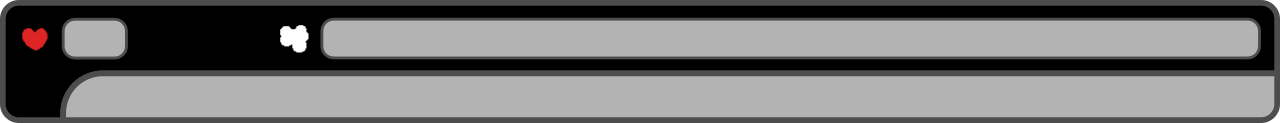
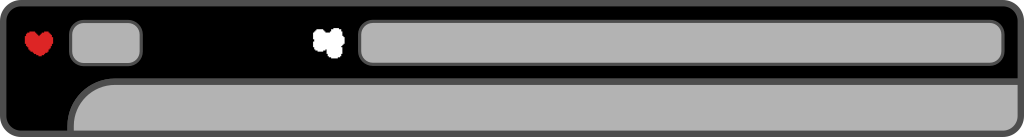
adjust hud

diff --git a/hud.go b/hud.go
@@ -43,7 +43,7 @@ func (h *Hud) Update() {
 }
 
 func (h *Hud) drawTitle(screen *ebiten.Image) {
-	text.Draw(screen, "Level " + h.levelTitle, mplusSmallFont, 50, 53, color.Black)
+	text.Draw(screen, "Level " + h.levelTitle, mplusSmallFont, 105, 115, color.Black)
 }
 
 func (h *Hud) Draw(screen *ebiten.Image) {
@@ -59,7 +59,7 @@ func (h *Hud) drawLive(offset int, screen *ebiten.Image) {
 	op := &ebiten.DrawImageOptions{}
 	x, y := h.position()
 
-	op.GeoM.Translate(float64(x) + 135 + float64(offset), float64(y) + 40)
+	op.GeoM.Translate(float64(x) + 155 + float64(offset), float64(y) + 50)
 	op.GeoM.Scale(scale/1.9, scale/1.9)
 	screen.DrawImage(sprites["player_center"], op)
 }
@@ -85,7 +85,7 @@ func (h *Hud) drawBackground(screen *ebiten.Image) {
 }
 
 func (h *Hud) drawOxigenBar(screen *ebiten.Image) {
-	vector.DrawFilledRect(screen, 167, 14, float32(h.oxygen), 11, color.RGBA{0xff, 0xff, 0xff, 0xff}, true)
+	vector.DrawFilledRect(screen, 375, 33, float32(h.oxygen), 18, color.RGBA{0xff, 0xff, 0xff, 0xff}, true)
 }
 
 func (h *Hud) MoveTo(x int, y int) {

diff --git a/constants.go b/constants.go
@@ -20,9 +20,9 @@ const (
 	maxVx              = 5
 	maxVy              = 8
 	maxTimeToIdle      = 5
-	playerMaxRight     = 1250
-	playerMaxLeft      = -70
-	playerMaxUp        = 125
+	playerMaxRight     = 998
+	playerMaxLeft      = -3
+	playerMaxUp        = 135
 	playerMaxDown      = 800
 	fuelHandXOffset    = 25
 	fuelHandYOffset    = 6
@@ -98,7 +98,7 @@ const (
 )
 
 const (
-	maxOxygenCapacity      = 457
+	maxOxygenCapacity      = 610
 	maxOxygenTimeToConsume = 10
 )
 

diff --git a/font.go b/font.go
@@ -38,7 +38,7 @@ func LoadFonts() {
 		log.Fatal(err)
 	}
 	mplusSmallFont, err = opentype.NewFace(tttf, &opentype.FaceOptions{
-		Size:    8,
+		Size:    12,
 		DPI:     dpi,
 		Hinting: font.HintingVertical,
 	})
